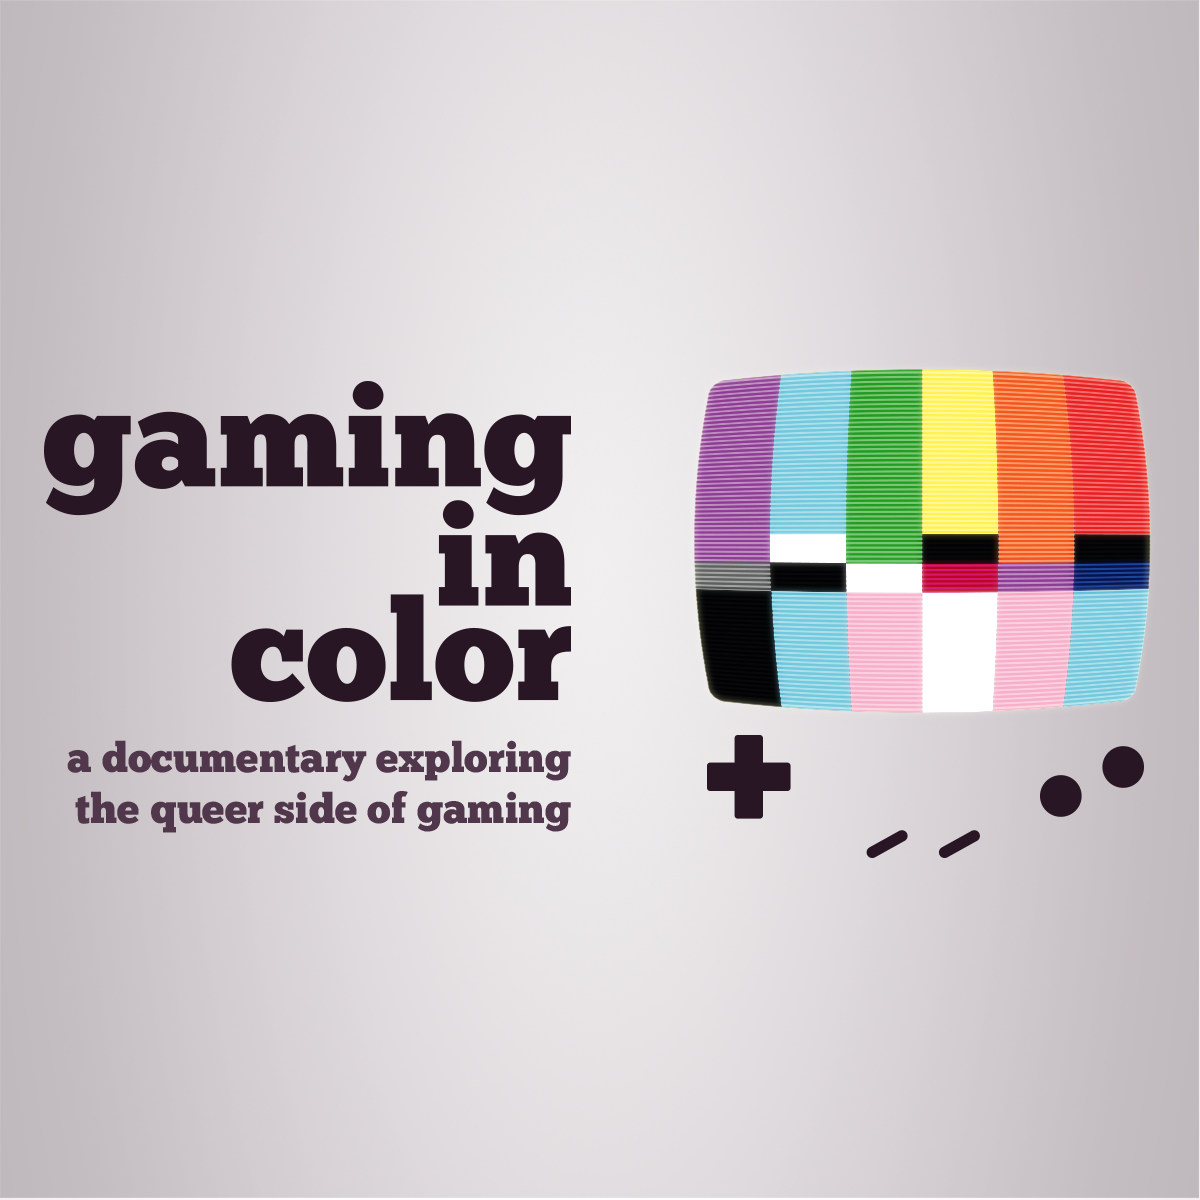
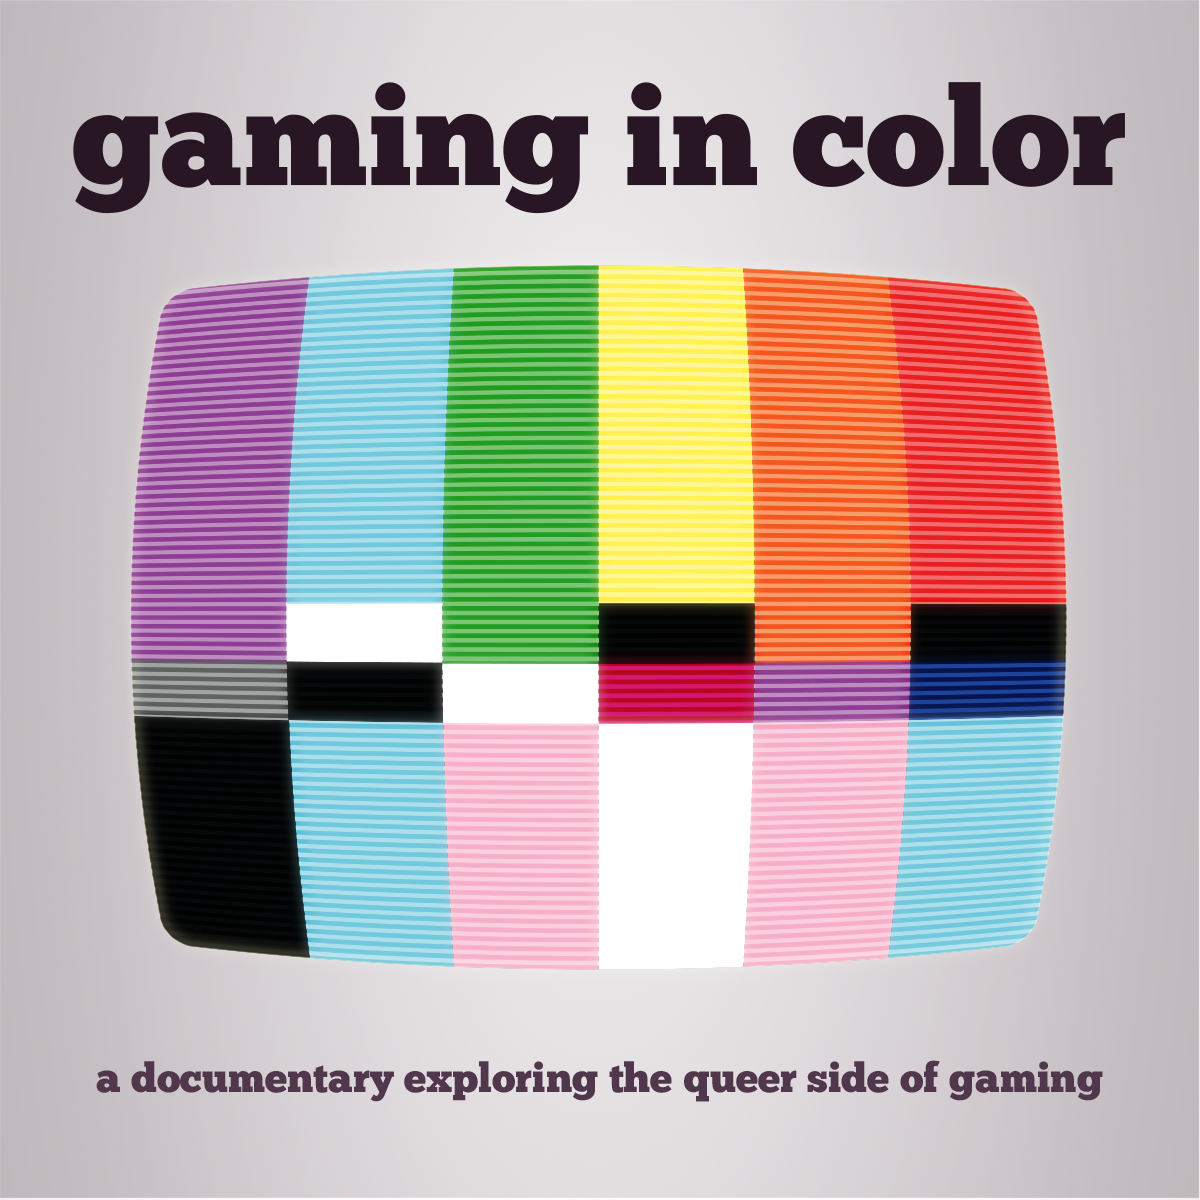
Added square + horizontal metadata/OG images (GIC)

diff --git a/index.html b/index.html
@@ -1,13 +1,22 @@
 <!DOCTYPE html>
 <html lang="en-US">
 <head>
+<!-- Global site tag (gtag.js) - Google Analytics -->
+<script async src="https://www.googletagmanager.com/gtag/js?id=UA-56715078-3"></script>
+<script>
+  window.dataLayer = window.dataLayer || [];
+  function gtag(){dataLayer.push(arguments);}
+  gtag('js', new Date());
+
+  gtag('config', 'UA-56715078-3');
+</script>
 <meta charset="UTF-8">
 <link rel="stylesheet" type="text/css" href="//fonts.googleapis.com/css?family=Roboto:100,100italic,300,300italic,regular,italic,500,500italic,700,700italic,900,900italic"/>
 <link rel="stylesheet" type="text/css" href="./wp-content/themes/gic-child/bootstrap.min.css"/>
   <!-- Open Graph general (Facebook, Pinterest & Google+) -->
   <meta name="og:title" content="Gaming In Color">
   <meta name="og:description" content="Out of the closet and into the arcade! Gaming In Color is a feature documentary exploring the queer side of gaming: the queer gaming community, gaymer culture and events, and the rise of LGBTQ themes in video games.">
-  <meta name="og:image" content="https://gamingincolor.tv/imgs/GIC_OG.png">
+  <meta name="og:image" content="https://gamingincolor.tv/imgs/GIC_OG_FB.png">
   <meta name="og:url" content="https://gamingincolor.tv/">
   <meta name="og:site_name" content="Gaming In Color">
   <meta name="og:type" content="website">
@@ -41,16 +50,7 @@ body{background-color:#efefef;color:#3a3a3a;}a, a:visited{color:#1e73be;text-dec
 		</head>
 
 <body itemtype="http://schema.org/WebPage" itemscope="itemscope" class="home page-template-default page page-id-2  no-sidebar nav-below-header fluid-header one-container active-footer-widgets-0 nav-aligned-left header-aligned-left dropdown-hover">
-<script>
-  (function(i,s,o,g,r,a,m){i['GoogleAnalyticsObject']=r;i[r]=i[r]||function(){
-  (i[r].q=i[r].q||[]).push(arguments)},i[r].l=1*new Date();a=s.createElement(o),
-  m=s.getElementsByTagName(o)[0];a.async=1;a.src=g;m.parentNode.insertBefore(a,m)
-  })(window,document,'script','//www.google-analytics.com/analytics.js','ga');
-
-  ga('create', 'UA-56715078-3', 'auto');
-  ga('send', 'pageview');
-
-</script>	<a class="screen-reader-text skip-link" href="#content" title="Skip to content">Skip to content</a>
+<a class="screen-reader-text skip-link" href="#content" title="Skip to content">Skip to content</a>
 	 <div class="navbar navbar-static-top" role="navigation">
       <div class="container">
         <div class="navbar-header">
